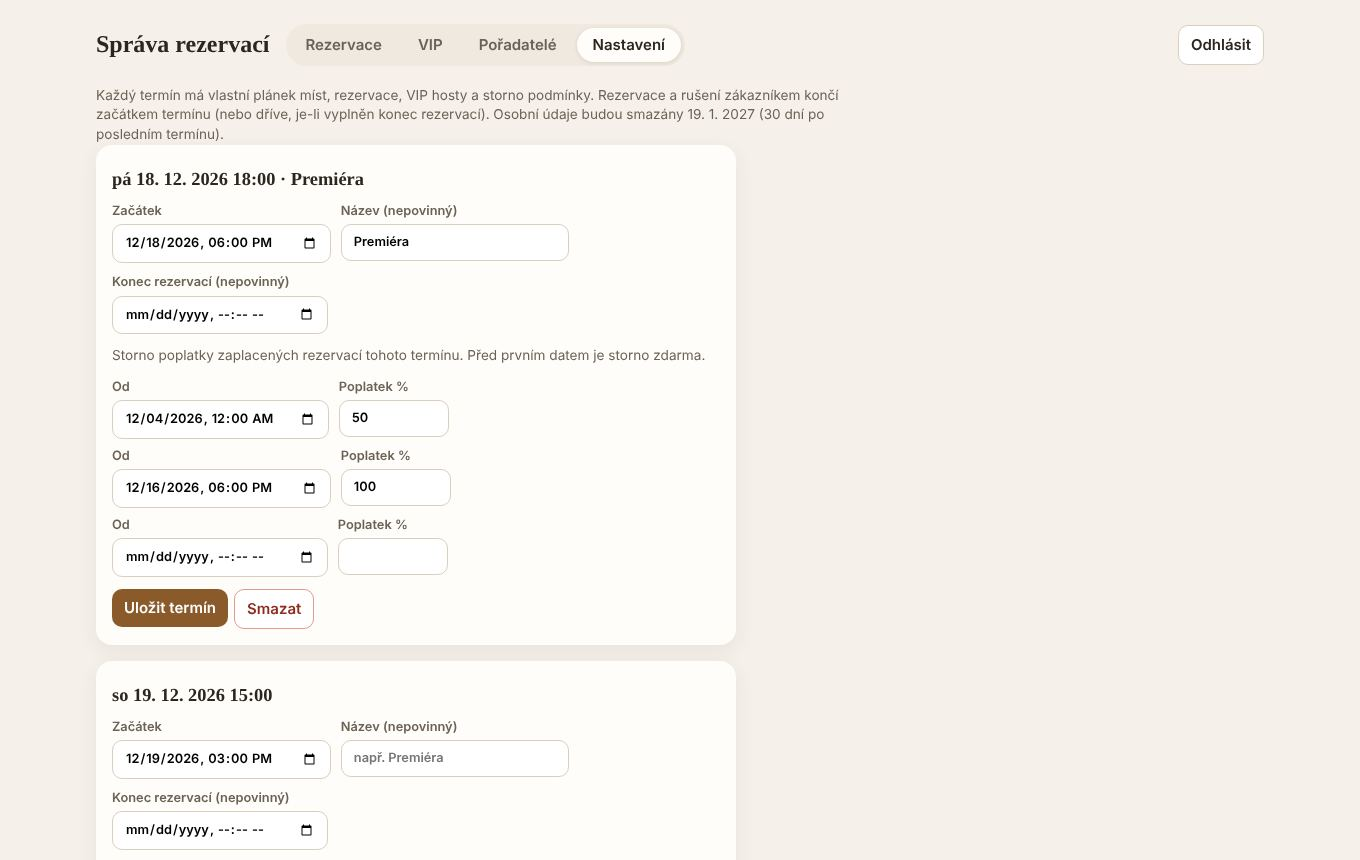
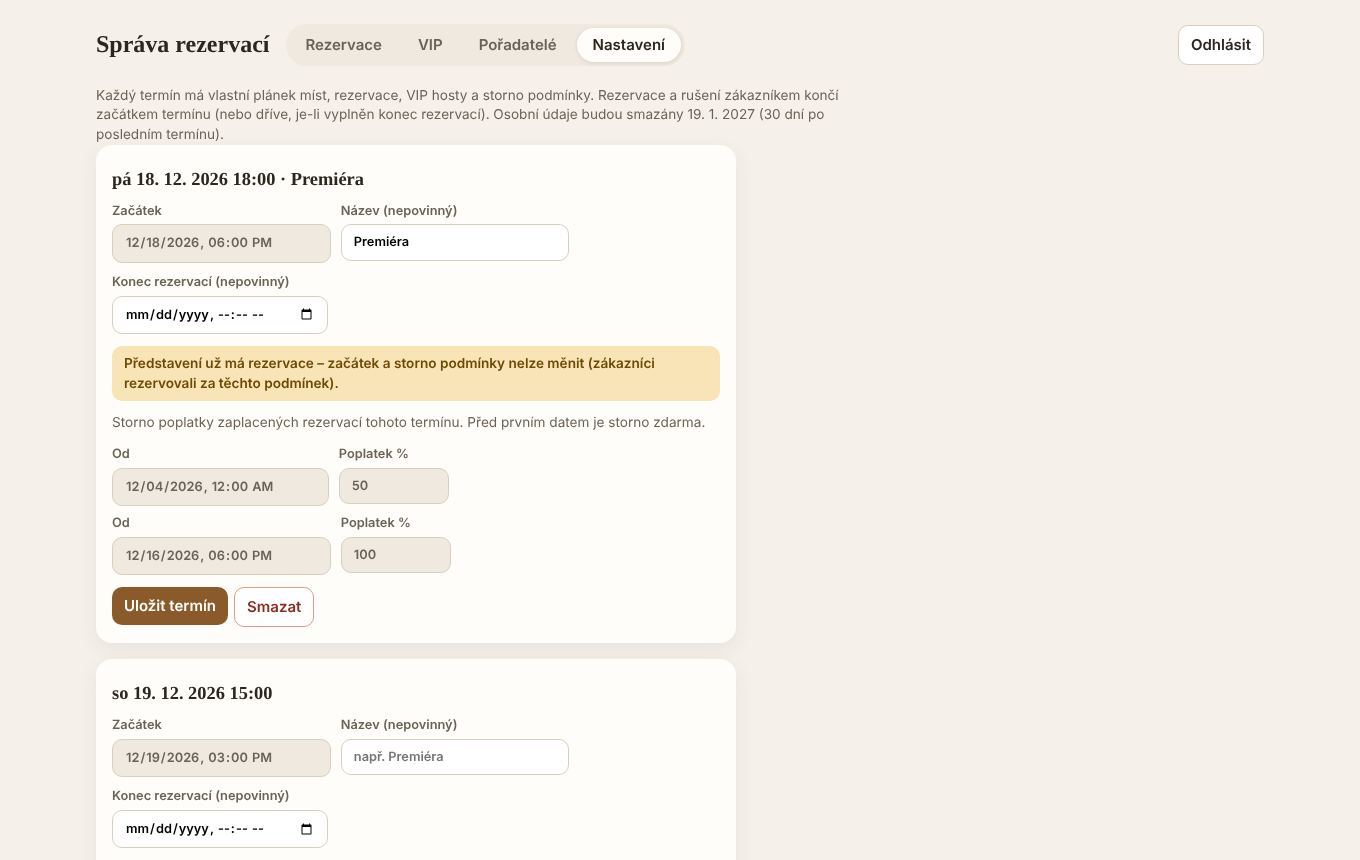
Fix review points: per-run pending limit, GDPR text, admin cancel e-mail, late payment after run; lock run start and storno rules
- Pending reservations per e-mail are counted per run
- Reservation form: personal data deleted 'po posledním představení'
- Admin cancelling a whole unpaid reservation now e-mails the customer
  (payment already sent will be returned)
- Late payment for a run that already started: not restored; recorded as
  received and due for refund, customer e-mailed ('Platba po představení')
- Once a run has reservations, its start and storno rules are locked in
  admin (disabled fields, server rejects changes)
- Developer and stakeholder documentation updated, screenshots refreshed

Claude-Session: https://claude.ai/code/session_01N2XaXNXgse1c2eHTGFf1yr

Changed region(s): [[0.0618, 0.393, 0.5559, 0.7256], [0.0618, 0.786, 0.3397, 0.9977], [0.0618, 0.2419, 0.2471, 0.3023]]

diff --git a/docs/prehled/index.html b/docs/prehled/index.html
@@ -105,7 +105,7 @@ footer { color: var(--fg-2); font-size: .85rem; border-top: 1px solid var(--line
     <ol class="flow">
       <li><strong>Výběr</strong><span>Návštěvník vybere představení a na plánku kostela naklikne místa (300 Kč, nejvýše 20 najednou).</span></li>
       <li><strong>Rezervace</strong><span>Vyplní jméno a e-mail. Místa jsou od té chvíle držena jen pro něj.</span></li>
-      <li><strong>Platba</strong><span>Zaplatí převodem – nejsnáz QR platbou v bankovní aplikaci. Má na to 3 dny.</span></li>
+      <li><strong>Platba</strong><span>Zaplatí převodem – nejsnáz QR platbou v bankovní aplikaci. Má na to 3 dny (nejpozději do začátku představení).</span></li>
       <li><strong>Vstupenka</strong><span>Účetní platbu potvrdí a návštěvníkovi přijde e-mailem vstupenka s QR kódem.</span></li>
       <li><strong>Vstup</strong><span>U vchodu ji ukáže v mobilu, pořadatel ji načte telefonem a pustí ho dál.</span></li>
     </ol>
@@ -198,7 +198,7 @@ footer { color: var(--fg-2); font-size: .85rem; border-top: 1px solid var(--line
       <figure><div class="desktop"><img src="14-admin-vip.jpg" alt="VIP hosté" width="1360" height="860" loading="lazy"></div>
         <figcaption><strong>VIP hosté</strong>Seznam hostů zdarma pro každé představení. Je vidět, kdo už přišel.</figcaption></figure>
       <figure><div class="desktop"><img src="16-admin-terminy.jpg" alt="Nastavení představení" width="1360" height="860" loading="lazy"></div>
-        <figcaption><strong>Představení a storno</strong>Datum a čas každého představení a jeho storno poplatky.</figcaption></figure>
+        <figcaption><strong>Představení a storno</strong>Datum a čas každého představení a jeho storno poplatky. Po první rezervaci jsou zamčené.</figcaption></figure>
     </div>
   </section>
 
@@ -211,6 +211,8 @@ footer { color: var(--fg-2); font-size: .85rem; border-top: 1px solid var(--line
       <div class="rule"><strong>Vstupenku nejde padělat</strong><p>QR kód je elektronicky podepsaný. Pořadatel vždy vidí aktuální stav: zaplaceno, zrušeno nebo už prošel.</p></div>
       <div class="rule"><strong>Vstupenka platí jen na své představení</strong><p>Kdo přijde jiný den, scanner ukáže „Jiný termín“ a dotyčného nepustí jako odbaveného.</p></div>
       <div class="rule"><strong>Odbavení jen v pravý čas</strong><p>Od hodiny před do hodiny po začátku představení. Jindy scanner varuje, aby se omylem neodbavovalo jiné představení.</p></div>
+      <div class="rule"><strong>Čas a storno podmínky se nemění</strong><p>Jakmile má představení první rezervaci, nelze už změnit jeho začátek ani storno podmínky – platí to, za co si lidé místa koupili.</p></div>
+      <div class="rule"><strong>Platba po představení</strong><p>Když peníze dorazí až po představení, rezervace se neobnoví. Účetní platbu zaznamená k vrácení a návštěvník dostane e-mail.</p></div>
       <div class="rule"><strong>VIP hosté</strong><p>Neplatí a nemají vstupenku. Pořadatel je najde na seznamu podle jména.</p></div>
       <div class="rule"><strong>Ochrana osobních údajů</strong><p>Ukládá se jen jméno a e-mail. 30 dní po posledním představení se automaticky smažou.</p></div>
     </div>
@@ -220,7 +222,7 @@ footer { color: var(--fg-2); font-size: .85rem; border-top: 1px solid var(--line
     <h2 id="launch">Co je potřeba před spuštěním</h2>
     <ul class="checklist">
       <li>Bankovní účet pro platby a specifický symbol.</li>
-      <li>Data a časy všech představení a jejich storno podmínky.</li>
+      <li>Data a časy všech představení a jejich storno podmínky – musí být hotové před spuštěním prodeje, po první rezervaci je už nelze změnit.</li>
       <li>Seznam VIP hostů pro každé představení.</li>
       <li>Jména pořadatelů u vchodu a na která představení přijdou (dostanou pozvánku).</li>
       <li>Kdo bude potvrzovat platby a vracet peníze.</li>

diff --git a/src/components/PaymentView.jsx b/src/components/PaymentView.jsx
@@ -57,6 +57,18 @@ function CancellationInfo({ reservation }) {
   const { status, cancelFee, refundAmount, refundedAmount, cancelledBy, cancelledSeats } = reservation;
   const due = (refundAmount ?? 0) - (refundedAmount ?? 0);
   const whole = status === 'cancelled';
+  if (status === 'expired' && refundAmount > 0) {
+    return (
+      <div className="cancel-info">
+        <strong>Platba dorazila až po představení.</strong>
+        {due > 0 ? (
+          <span>Částku {formatCzk(due)} pošleme zpět na účet, ze kterého platba přišla.</span>
+        ) : (
+          <span>Vráceno {formatCzk(refundedAmount)}.</span>
+        )}
+      </div>
+    );
+  }
   if (!whole && !cancelledSeats.length) return null;
   return (
     <div className="cancel-info">

diff --git a/src/components/ReservationForm.jsx b/src/components/ReservationForm.jsx
@@ -106,7 +106,7 @@ export default function ReservationForm({ stats, deadlineHours, run, dataRetenti
           {storno && <p>Storno: {storno}.</p>}
           <p>
             Jméno a e-mail použijeme jen pro vyřízení této rezervace a
-            {dataRetentionDays ? ` do ${dataRetentionDays} dnů` : ''} po skončení akce je smažeme.
+            {dataRetentionDays ? ` do ${dataRetentionDays} dnů` : ''} po posledním představení je smažeme.
           </p>
         </div>
         {formError && <p className="form-error" role="alert">{formError}</p>}

diff --git a/api/admin.php b/api/admin.php
@@ -79,8 +79,12 @@ if (!empty($_SESSION['admin']) && $csrfOk && in_array($action, ['run-save', 'run
             $_SESSION['flash'] = 'Termín smazán.';
         }
     } else {
+        // Once a run has reservations, its start and storno rules are fixed:
+        // customers booked under them. Only the label and the booking cut-off change.
+        $existing = $id > 0 ? run_by_id($id) : null;
+        $locked = $existing !== null && run_has_reservations($id);
         $label = trim((string) ($_POST['label'] ?? ''));
-        $starts = prague_time((string) ($_POST['starts_at'] ?? ''));
+        $starts = $locked ? run_starts($existing) : prague_time((string) ($_POST['starts_at'] ?? ''));
         $closesRaw = trim((string) ($_POST['booking_closes_at'] ?? ''));
         $closes = $closesRaw === '' ? null : prague_time($closesRaw);
         $rules = [];
@@ -94,7 +98,10 @@ if (!empty($_SESSION['admin']) && $csrfOk && in_array($action, ['run-save', 'run
         if (mb_strlen($label) > 100) {
             $errors[] = 'Název je příliš dlouhý.';
         }
-        foreach ((array) ($_POST['rule_from'] ?? []) as $i => $from) {
+        if ($locked && (isset($_POST['starts_at']) || isset($_POST['rule_from']))) {
+            $errors[] = 'Představení už má rezervace – začátek a storno podmínky nelze měnit.';
+        }
+        foreach ($locked ? [] : (array) ($_POST['rule_from'] ?? []) as $i => $from) {
             $from = trim((string) $from);
             $percent = trim((string) ($_POST['rule_percent'][$i] ?? ''));
             if ($from === '' && $percent === '') {
@@ -109,7 +116,8 @@ if (!empty($_SESSION['admin']) && $csrfOk && in_array($action, ['run-save', 'run
         if ($errors) {
             $_SESSION['flash'] = implode(' ', $errors);
         } else {
-            $values = [$label, db_time($starts), $closes ? db_time($closes) : null, json_encode(normalize_storno_rules($rules), JSON_UNESCAPED_UNICODE)];
+            $rulesJson = $locked ? json_encode($existing['storno_rules']) : json_encode(normalize_storno_rules($rules), JSON_UNESCAPED_UNICODE);
+            $values = [$label, db_time($starts), $closes ? db_time($closes) : null, $rulesJson];
             if ($id > 0) {
                 db()->prepare('UPDATE runs SET label = ?, starts_at = ?, booking_closes_at = ?, storno_rules = ? WHERE id = ?')
                     ->execute([...$values, $id]);
@@ -196,6 +204,8 @@ $flash = $_SESSION['flash'] ?? null;
 /**
  * Payment arrived after the reservation expired: restore it as paid if all
  * its seats are still free, otherwise report which seats were taken meanwhile.
+ * When the run has already started, the reservation is not restored; the
+ * payment is recorded as received and due for refund, and the customer is e-mailed.
  */
 function accept_late_payment(int $id): string
 {
@@ -207,6 +217,20 @@ function accept_late_payment(int $id): string
     if (!$r) {
         $pdo->rollBack();
         return 'Rezervaci nelze obnovit.';
+    }
+    $run = run_by_id((int) $r['run_id']);
+    if ($run === null || run_started($run)) {
+        $pdo->prepare(
+            'UPDATE reservations SET paid_at = ?, paid_amount = amount, cancel_fee = 0,
+               refund_amount = amount, refunded_amount = 0, refunded_at = NULL WHERE id = ?'
+        )->execute([db_time(now_utc()), $id]);
+        $pdo->commit();
+        $stmt = db()->prepare('SELECT * FROM reservations WHERE id = ?');
+        $stmt->execute([$id]);
+        $r = $stmt->fetch();
+        $mailed = send_late_payment_refund_email($r);
+        return 'Představení už proběhlo – platba zaznamenána k vrácení (' . format_czk((int) $r['refund_amount']) . ').'
+            . ($mailed ? ' Zákazník dostal e-mail.' : '');
     }
     $seats = explode(',', $r['seats']);
     $placeholders = implode(',', array_fill(0, count($seats), '?'));
@@ -225,6 +249,14 @@ function accept_late_payment(int $id): string
         ->execute([db_time(now_utc()), $id]);
     $pdo->commit();
     return 'Pozdní platba přijata, rezervace obnovena.' . send_ticket_for($id);
+}
+
+/** True once any reservation (in any status) exists for the run. */
+function run_has_reservations(int $runId): bool
+{
+    $stmt = db()->prepare('SELECT 1 FROM reservations WHERE run_id = ? LIMIT 1');
+    $stmt->execute([$runId]);
+    return (bool) $stmt->fetchColumn();
 }
 
 /** Sends the ticket e-mail for a paid reservation; returns a message for the flash. */
@@ -309,6 +341,8 @@ $statusLabels = ['pending' => 'Čeká na platbu', 'paid' => 'Zaplaceno', 'expire
   .card.selected { outline:2px solid var(--accent); }
   .settings-intro { margin-bottom:12px; max-width:760px; }
   .settings + .settings { margin-top:12px; }
+  .hint.locked { padding:8px 12px; border-radius:10px; background:#f9e4b7; color:#6d4a04; font-weight:600; }
+  input:disabled { background:#efe9df; color:var(--ink-2); }
   .card.settings { margin-bottom:16px; }
   .checks { display:flex; flex-wrap:wrap; gap:6px 16px; }
   .check { display:inline-flex !important; flex-direction:row !important; align-items:center; gap:6px; font-weight:500 !important; color:var(--ink) !important; max-width:none !important; }
@@ -484,23 +518,28 @@ $statusLabels = ['pending' => 'Čeká na platbu', 'paid' => 'Zaplaceno', 'expire
     <?php if ($deleteAt): ?>Osobní údaje budou smazány <?= $h($deleteAt->format('j. n. Y')) ?> (<?= (int) config('DATA_RETENTION_DAYS') ?> dní po posledním termínu).<?php endif ?></p>
 
   <?php foreach ($runForms as $run):
-      $rows = array_pad($run['storno_rules'], max(3, count($run['storno_rules']) + 1), ['from' => '', 'percent' => '']);
+      $locked = $run['id'] && run_has_reservations($run['id']);
+      $rows = $locked ? $run['storno_rules'] : array_pad($run['storno_rules'], max(3, count($run['storno_rules']) + 1), ['from' => '', 'percent' => '']);
+      $dis = $locked ? ' disabled' : '';
   ?>
   <form class="card settings" method="post">
     <input type="hidden" name="csrf" value="<?= $h($_SESSION['csrf']) ?>">
     <input type="hidden" name="id" value="<?= (int) $run['id'] ?>">
     <h2><?= $run['id'] ? $h(run_label($run)) : 'Nový termín' ?></h2>
     <div class="rule">
-      <label>Začátek<input type="datetime-local" name="starts_at" value="<?= $h($local($run['starts_at'])) ?>" required></label>
+      <label>Začátek<input type="datetime-local" name="starts_at" value="<?= $h($local($run['starts_at'])) ?>" required<?= $dis ?>></label>
       <label>Název (nepovinný)<input name="label" maxlength="100" value="<?= $h($run['label']) ?>" placeholder="např. Premiéra"></label>
       <label>Konec rezervací (nepovinný)<input type="datetime-local" name="booking_closes_at" value="<?= $h($local($run['booking_closes_at'])) ?>"></label>
     </div>
-    <p class="hint">Storno poplatky zaplacených rezervací tohoto termínu. Před prvním datem je storno zdarma.</p>
+    <?php if ($locked): ?>
+      <p class="hint locked">Představení už má rezervace – začátek a storno podmínky nelze měnit (zákazníci rezervovali za těchto podmínek).</p>
+    <?php endif ?>
+    <p class="hint">Storno poplatky zaplacených rezervací tohoto termínu. Před prvním datem je storno zdarma.<?= $locked && !$rows ? ' Storno podmínky nejsou nastavené – zrušení je zdarma.' : '' ?></p>
     <div class="rules">
       <?php foreach ($rows as $rule): ?>
         <div class="rule">
-          <label>Od<input type="datetime-local" name="rule_from[]" value="<?= $h($rule['from'] === '' ? '' : prague_input(storno_from($rule['from']))) ?>"></label>
-          <label>Poplatek %<input type="number" name="rule_percent[]" min="0" max="100" value="<?= $h($rule['percent']) ?>"></label>
+          <label>Od<input type="datetime-local" name="rule_from[]" value="<?= $h($rule['from'] === '' ? '' : prague_input(storno_from($rule['from']))) ?>"<?= $dis ?>></label>
+          <label>Poplatek %<input type="number" name="rule_percent[]" min="0" max="100" value="<?= $h($rule['percent']) ?>"<?= $dis ?>></label>
         </div>
       <?php endforeach ?>
     </div>
@@ -680,11 +719,14 @@ $statusLabels = ['pending' => 'Čeká na platbu', 'paid' => 'Zaplaceno', 'expire
                   <button name="action" value="refunded">Vráceno</button>
                 </form>
               <?php endif ?>
-              <?php if ($r['status'] === 'expired'): ?>
-                <form method="post" onsubmit="return confirm('Platba dorazila po splatnosti. Obnovit rezervaci jako zaplacenou?')">
+              <?php if ($r['status'] === 'expired' && $r['paid_at'] === null):
+                  $afterRun = ($lr = run_by_id((int) $r['run_id'])) === null || run_started($lr); ?>
+                <form method="post" onsubmit="return confirm('<?= $afterRun
+                    ? 'Platba dorazila po představení. Zaznamenat ji k vrácení a poslat zákazníkovi e-mail?'
+                    : 'Platba dorazila po splatnosti. Obnovit rezervaci jako zaplacenou?' ?>')">
                   <input type="hidden" name="csrf" value="<?= $h($_SESSION['csrf']) ?>">
                   <input type="hidden" name="id" value="<?= (int) $r['id'] ?>">
-                  <button class="secondary" name="action" value="paid-late">Přijmout pozdní platbu</button>
+                  <button class="secondary" name="action" value="paid-late"><?= $afterRun ? 'Platba po představení – vrátit' : 'Přijmout pozdní platbu' ?></button>
                 </form>
               <?php endif ?>
               <?php if ($r['status'] === 'paid'): ?>

diff --git a/api/lib/cancellation.php b/api/lib/cancellation.php
@@ -129,7 +129,8 @@ function cancel_seats(int $id, ?array $seatIds, string $by): array
  *  - paid, part of the seats: new ticket (the old one lists cancelled seats) + fee/refund
  *  - paid, everything:        cancellation with fee/refund and refund deadline
  *  - unpaid, part of the seats: new amount to pay
- *  - unpaid, everything:      confirmation to the customer; nothing when admin cancels
+ *  - unpaid, everything:      confirmation to the customer (by admin: also that a payment
+ *                             already sent will be returned)
  */
 function send_cancellation_notice(array $r, array $cancelled, bool $whole, int $fee, int $refund, string $by, bool $paid): void
 {
@@ -157,14 +158,14 @@ function send_cancellation_notice(array $r, array $cancelled, bool $whole, int $
         ));
         return;
     }
-    if (!$paid && $by === 'admin') {
-        return;
-    }
     send_customer_email($r, 'Rezervace zrušena', array_merge(
         ['Vaše rezervace (VS ' . $r['variable_symbol'] . ') byla zrušena a místa uvolněna:',
          implode('; ', seat_labels($r['seats'])) . '.',
          run_line($r)],
-        $refundLines
+        $refundLines,
+        !$paid && $by === 'admin'
+            ? ['', 'Pokud jste platbu už odeslali, pošleme Vám ji zpět na účet, ze kterého přišla.']
+            : []
     ));
 }
 

diff --git a/api/reservations.php b/api/reservations.php
@@ -88,10 +88,11 @@ function create_reservation(): void
 
     expire_reservations();
 
-    $pending = db()->prepare("SELECT COUNT(*) FROM reservations WHERE email = ? AND status = 'pending'");
-    $pending->execute([$email]);
+    // Counted per run, so one person can book several runs at once.
+    $pending = db()->prepare("SELECT COUNT(*) FROM reservations WHERE email = ? AND run_id = ? AND status = 'pending'");
+    $pending->execute([$email, $run['id']]);
     if ((int) $pending->fetchColumn() >= (int) config('PENDING_RESERVATIONS_PER_EMAIL')) {
-        json_error('Na tento e-mail už čekají nezaplacené rezervace. Nejdříve je prosím uhraďte.', 429);
+        json_error('Na tento e-mail už na toto představení čekají nezaplacené rezervace. Nejdříve je prosím uhraďte.', 429);
     }
 
     $pdo = db();

diff --git a/api/lib/mail.php b/api/lib/mail.php
@@ -93,6 +93,18 @@ function send_reminder_email(array $r): bool
     ));
 }
 
+/** Payment arrived after the run took place: the money will be returned. */
+function send_late_payment_refund_email(array $r): bool
+{
+    return send_customer_email($r, 'Platba po představení', [
+        'Vaše platba za rezervaci (VS ' . $r['variable_symbol'] . ') dorazila až po představení, rezervace už neplatila.',
+        run_line($r),
+        '',
+        'Částku ' . format_czk((int) $r['refund_amount']) . ' Vám do ' . (int) config('REFUND_DAYS')
+            . ' dnů pošleme zpět na účet, ze kterého platba přišla.',
+    ]);
+}
+
 function send_expiry_email(array $r): bool
 {
     $base = rtrim((string) config('PUBLIC_URL'), '/');

diff --git a/api/config.php b/api/config.php
@@ -19,7 +19,7 @@ return (static function (): array {
 
         // Spam / bot protection
         'RESERVATIONS_PER_IP_PER_HOUR' => 5,
-        'PENDING_RESERVATIONS_PER_EMAIL' => 2, // unpaid reservations one e-mail may hold at once
+        'PENDING_RESERVATIONS_PER_EMAIL' => 2, // unpaid reservations one e-mail may hold at once in one run
         'LOGIN_ATTEMPTS_PER_15_MIN' => 10,     // admin and organizer login, per IP
         'FORM_MIN_SECONDS' => 3,               // reservation sent sooner after loading the page = bot
 

diff --git a/docs/DEVELOPER.md b/docs/DEVELOPER.md
@@ -128,7 +128,7 @@ environment variables of the same name override them (local file wins).
 | `DATA_RETENTION_DAYS` | 30 | personal data purged this long after the last run start |
 | `MAX_SEATS_PER_RESERVATION` | 20 | also enforced in the UI |
 | `RESERVATIONS_PER_IP_PER_HOUR` | 5 | |
-| `PENDING_RESERVATIONS_PER_EMAIL` | 2 | |
+| `PENDING_RESERVATIONS_PER_EMAIL` | 2 | unpaid reservations per e-mail **in one run** |
 | `LOGIN_ATTEMPTS_PER_15_MIN` | 10 | admin login, scanner password and invite attempts, per IP |
 | `FORM_MIN_SECONDS` | 3 | minimal age of the form token |
 | `BANK_IBAN` | **required** | reservations are refused (503) without it |
@@ -226,13 +226,15 @@ in a section detail with own seats.
 **Form** (`ReservationForm.jsx`): run, summary, first/last name, e-mail
 (client validation), honeypot `hp`, notes (due date, storno text from
 `stornoText()`, GDPR sentence: *„Jméno a e-mail použijeme jen pro vyřízení
-této rezervace a do N dnů po skončení akce je smažeme.“*), submit
+této rezervace a do N dnů po posledním představení je smažeme.“*), submit
 **Rezervovat a zaplatit**. 409/403 close the form with a toast and refresh.
 
 **Reservation page** (`PaymentView.jsx`, `/?r=<token>`): run, amount, status
 chip; pending → SPD QR + copyable account/IBAN/VS/SS/amount + due date
 (red overdue notice after it); paid → ticket QR; cancellation info
-(`CancellationInfo`) and cancel panel (`CancelPanel`, §10).
+(`CancellationInfo`, also *„Platba dorazila až po představení.“* with the
+refund for an expired reservation paid after its run) and cancel panel
+(`CancelPanel`, §10).
 
 ## 8. Reservation lifecycle
 
@@ -256,7 +258,7 @@ then deletes `reservation_seats` of `expired`/`cancelled` reservations.
 | honeypot empty, form token valid | 400 `Rezervaci se nepodařilo odeslat. Obnovte stránku a zkuste to znovu.` |
 | names, e-mail, 1–20 valid unique seats | 422 `Zkontrolujte zadané údaje.` / seat message, `fields` |
 | IP rate limit | 429 `Příliš mnoho rezervací z tohoto zařízení. Zkuste to prosím později.` |
-| < 2 pending for e-mail | 429 `Na tento e-mail už čekají nezaplacené rezervace. Nejdříve je prosím uhraďte.` |
+| < 2 pending for the e-mail in this run | 429 `Na tento e-mail už na toto představení čekají nezaplacené rezervace. Nejdříve je prosím uhraďte.` |
 | seats free in the run (`FOR UPDATE`; duplicate key fallback) | 409 `Některá místa už mezitím někdo rezervoval.` + `conflict` |
 
 Then in one transaction: insert reservation (`expires_at = min(now +
@@ -270,9 +272,15 @@ PAYMENT_DEADLINE_HOURS, run start)`), random unique 10-digit VS
 - Payments are matched manually by VS. Admin **Zaplaceno** sets `paid`,
   `paid_at`, `paid_amount = amount` and sends the ticket.
 - Reminder 24 h before the due date, expiry notice after expiry (§16).
-- **Late payment** (`accept_late_payment()`): only `expired`; re-inserts seats
-  if all are free in the run (else message naming the taken seats), sets
-  `paid`, sends the ticket.
+- **Late payment** (`accept_late_payment()`, admin action `paid-late`): only
+  `expired` without `paid_at`.
+  - run not started yet: re-inserts the seats if all are free in the run
+    (else message naming the taken seats), sets `paid`, sends the ticket
+    (button *Přijmout pozdní platbu*);
+  - run already started: the reservation stays `expired`; sets `paid_at`,
+    `paid_amount = amount`, `cancel_fee = 0`, `refund_amount = amount` (shows
+    in refunds due) and sends *Platba po představení* (button *Platba po
+    představení – vrátit*).
 
 ## 10. Cancellation and refunds
 
@@ -304,7 +312,9 @@ its percent applies, the highest started rule wins.
 E-mails (`send_cancellation_notice()`): paid part → *Nová vstupenka* (ticket
 e-mail with intro: cancelled seats, fee, refund line, *„Původní vstupenka už
 neplatí.“*); pending part → *Změna rezervace* (new payment details); whole →
-*Rezervace zrušena* with fee/refund line; pending whole by admin → none.
+*Rezervace zrušena* with fee/refund line; pending whole by admin → *Rezervace
+zrušena* + *„Pokud jste platbu už odeslali, pošleme Vám ji zpět na účet, ze
+kterého přišla.“*
 Refund line: *„Částku X Kč Vám do 14 dnů pošleme zpět na účet, ze kterého
 platba přišla.“*
 
@@ -385,6 +395,14 @@ POST, login rate-limited). Tabs:
 - **Nastavení** – runs: `run-save` (start required, label, booking cut-off
   before start, storno rows), `run-delete` (only without reservations/VIP;
   removes invite links to the run). Shows the GDPR deletion date.
+  **Lock:** once a run has any reservation (`run_has_reservations()`, any
+  status), its start and storno rules can no longer be changed – the form
+  shows them disabled with *„Představení už má rezervace – začátek a storno
+  podmínky nelze měnit (zákazníci rezervovali za těchto podmínek).“*; a POST
+  containing `starts_at` or `rule_from` is rejected with *„Představení už má
+  rezervace – začátek a storno podmínky nelze měnit.“* Label and booking
+  cut-off stay editable. Hence storno terms and the run time never change for
+  existing customers.
 
 `expire_reservations()` runs on every admin render.
 
@@ -402,7 +420,8 @@ except the ticket (multipart/related with inline PNG). All contain
 | Vstupenka | Zaplaceno / late payment / resend |
 | Nová vstupenka | partial cancellation of a paid reservation |
 | Změna rezervace | partial cancellation of a pending reservation |
-| Rezervace zrušena | whole cancellation (customer; admin only when paid) |
+| Rezervace zrušena | whole cancellation (customer or admin) |
+| Platba po představení | admin records a late payment for a run that already started |
 
 ## 16. Scheduled jobs and GDPR
 
@@ -420,7 +439,7 @@ seats and statuses stay.
 - `rate_limit(key, max, window)` fixed windows in `rate_limits` (keys
   hashed): reservations per IP (counted after validation), cancellations
   20/h per IP, logins/invites per IP.
-- Pending reservations per e-mail.
+- Pending reservations per e-mail and run.
 
 ## 18. HTTP API
 
